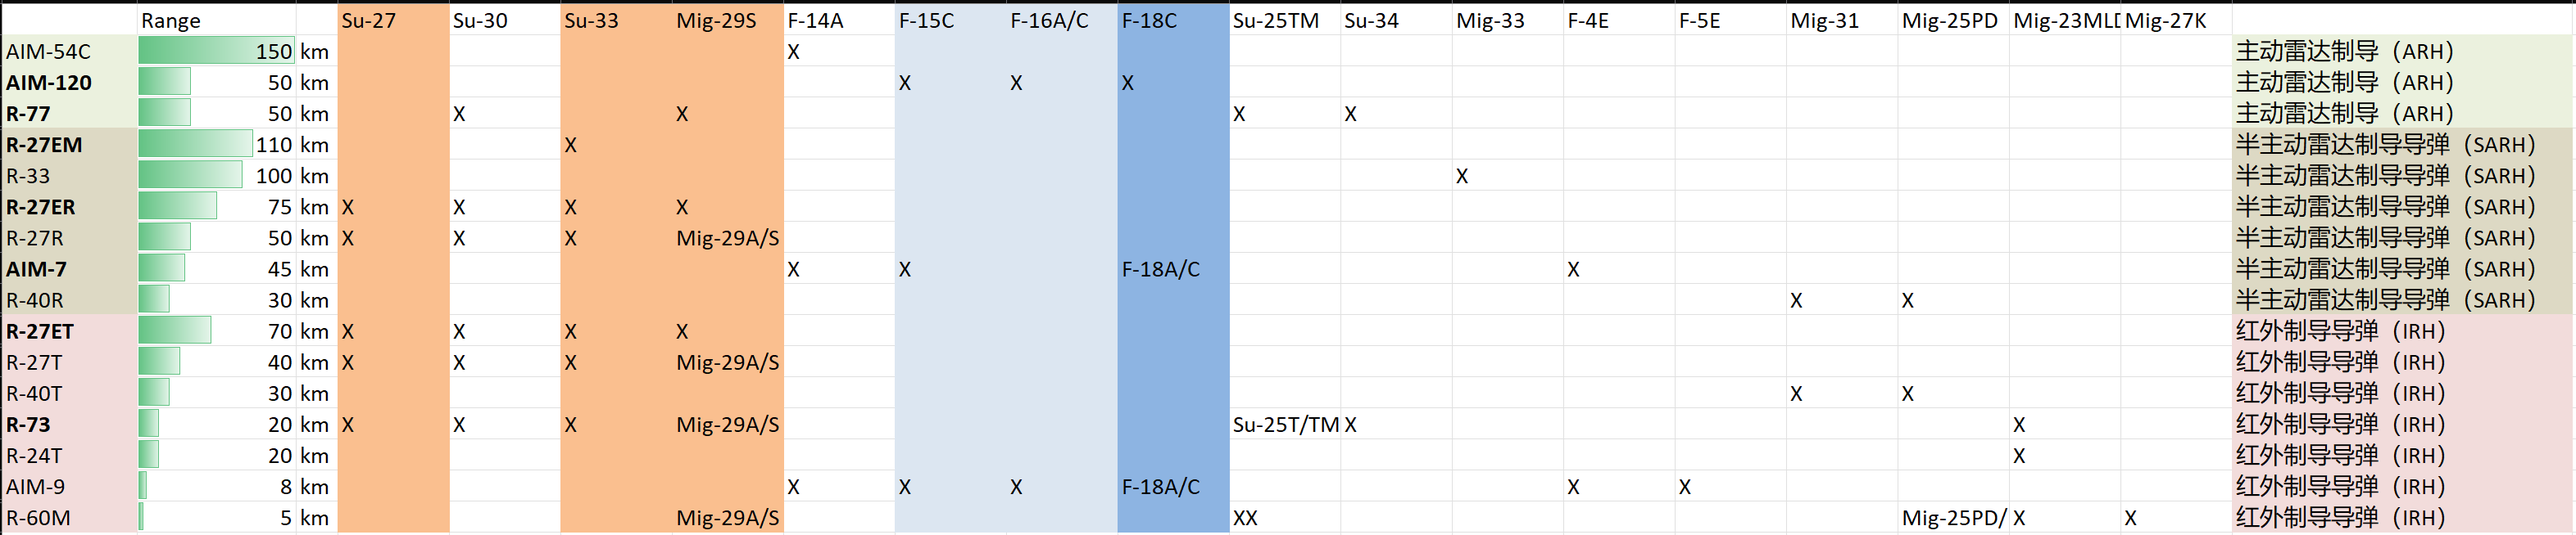
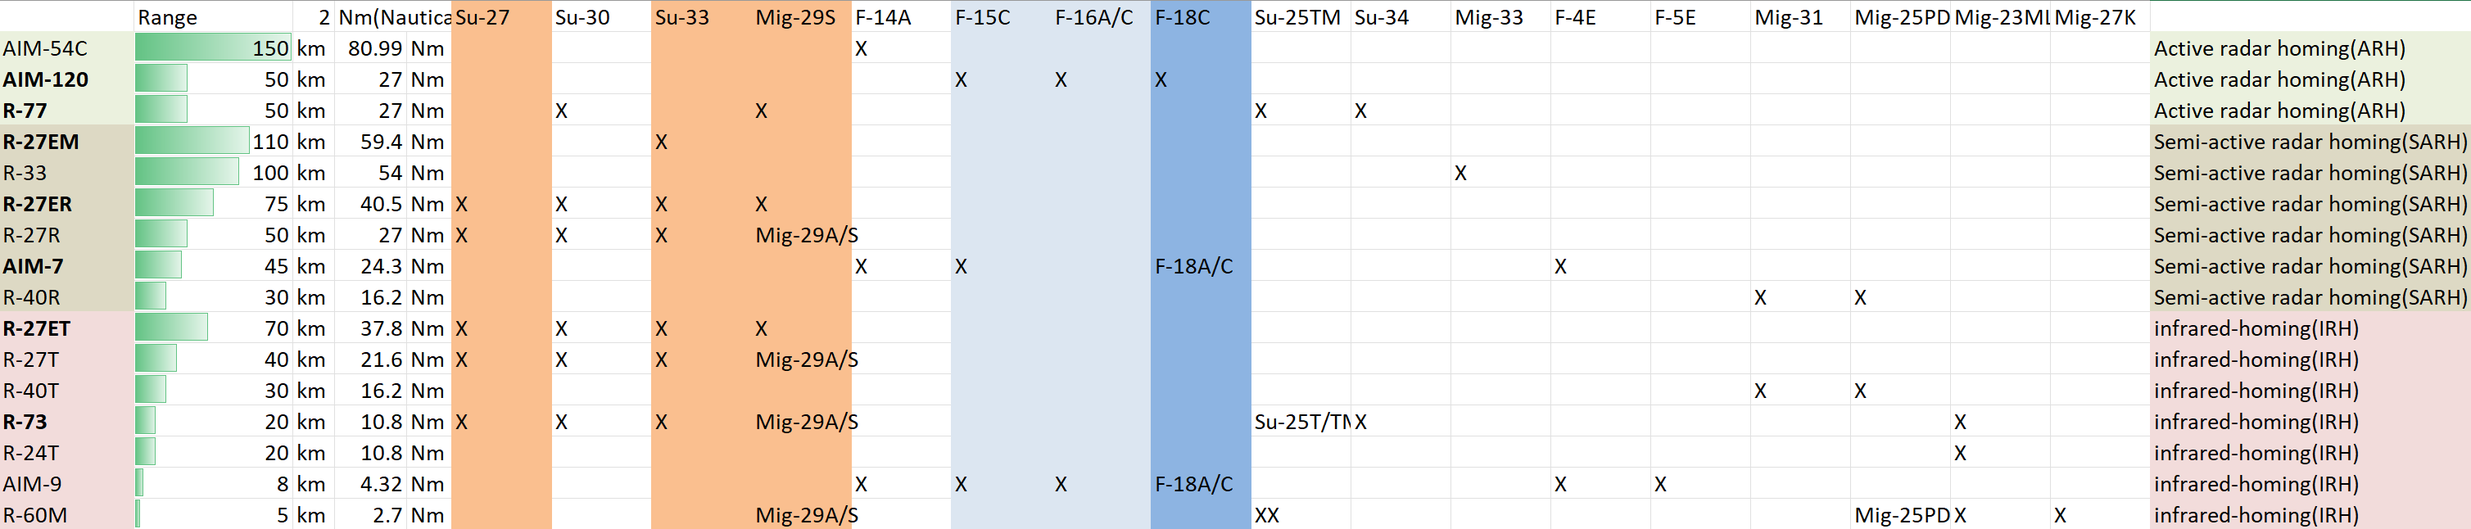
update en

diff --git a/dcs_fa-18/cheat_sheet.md b/dcs_fa-18/cheat_sheet.md
@@ -2,25 +2,25 @@
 
 ### Fox
 
-##### Fox-1 (半主动雷达制导)
+##### Fox-1 ARH - Active radar homing (半主动雷达制导)
 
 Indicates launch of a semi-active radar homing missile (such as the AIM-7 Sparrow).
 
 
-##### Fox-2 (红外制导)
+##### Fox-2 SARH - Semi-active radar homing (红外制导)
 
 Indicates launch of an infrared homing missile (such as the AIM-9 Sidewinder).
 
 
-##### Fox-3 (主动雷达制导)
+##### Fox-3 IRH - infrared-homing (主动雷达制导)
 
 Indicates launch of an active radar homing missile (such as the AIM-120 AMRAAM).
 
 
-<img src="images_cheat_sheet/missiles_smallchart2.png" width="600" height="184"/>
+<img src="images_cheat_sheet/missiles_smallchart2.png" width="600"/>
 
 
-<img src="images_cheat_sheet/missiles_fullchart.png" width="800" height="166"/>
+<img src="images_cheat_sheet/missiles_fullchart.png" width="800"/>
 
 ##### ACM HOTAS Cheat Sheet
 
